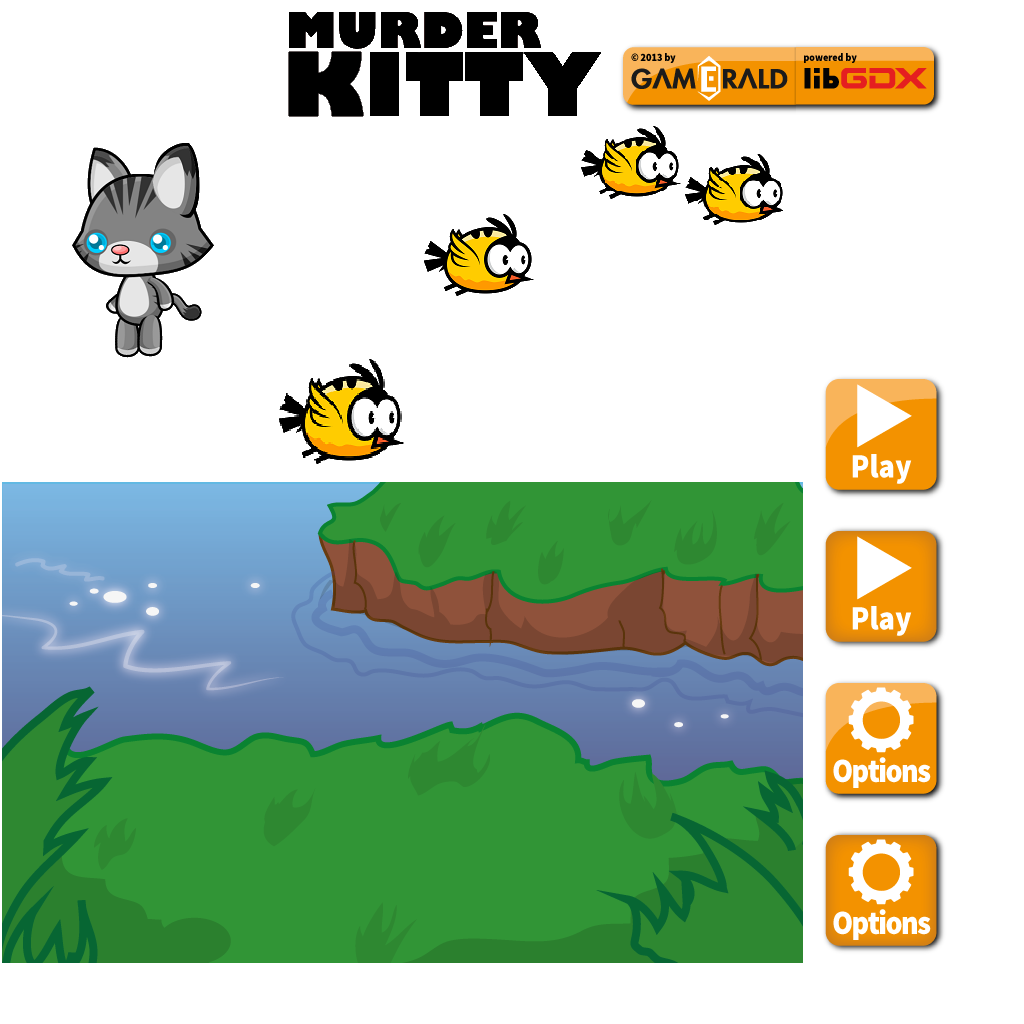
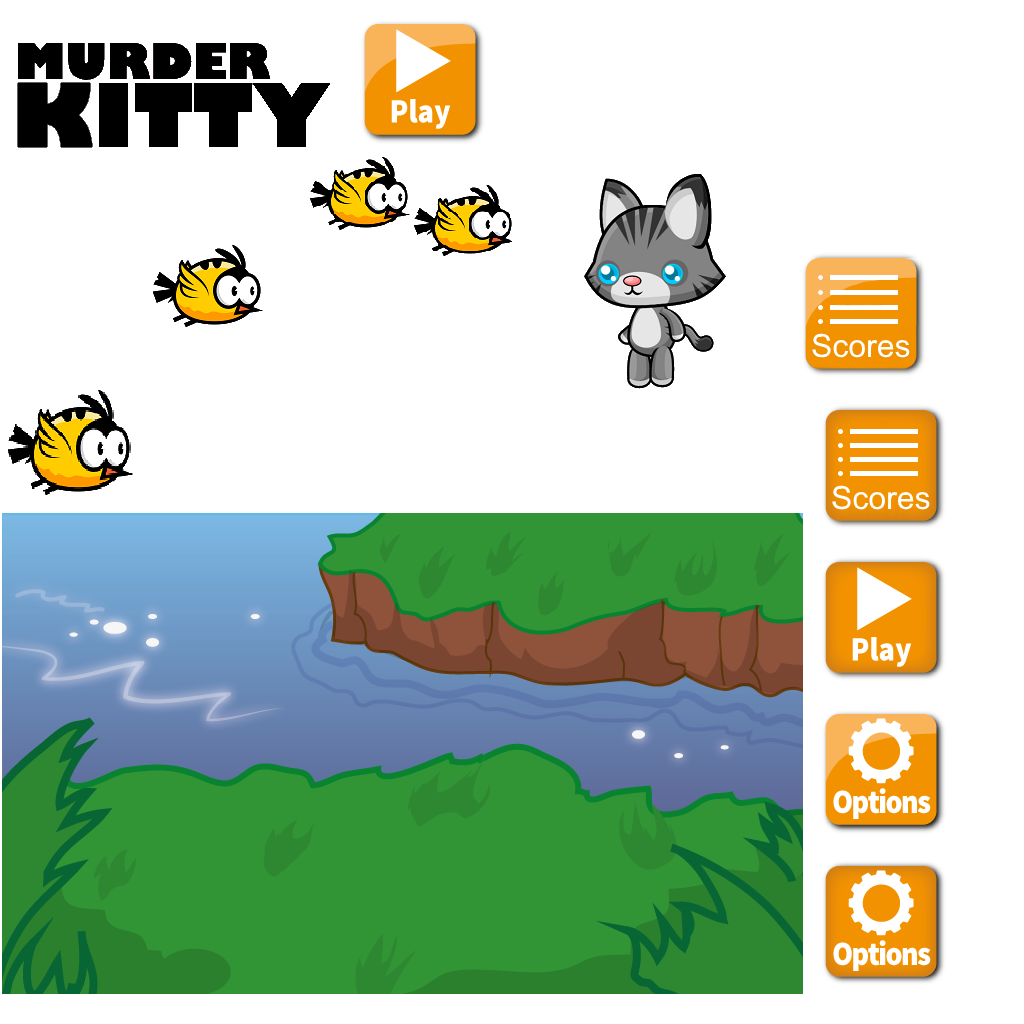
Final project: added menu score button & window (Modified: murderkitty-ui.pack.atlas, murderkitty-ui.json, TextureAtlasBuilder.java, Cat.java, Assets.java, MenuScreen.java, murderkitty-ui.pack.png) (Added: murderkitty-ui.pack2.png, scores-dn.png, scores-up.png)
** jumping animation starts over during each frog jump now **
** created and added score buttons to the menu **
** score window pops up with a close button (empty for now) **

** TODO: save and load top scores into menu score window **

diff --git a/core/src/com/lashleygdx/game/screens/MenuScreen.java b/core/src/com/lashleygdx/game/screens/MenuScreen.java
@@ -46,6 +46,7 @@ public class MenuScreen extends AbstractGameScreen
 	private Image imgBirds;
 	private Image imgKitty;
 	private Button btnMenuPlay;
+	private Button btnMenuScores;
 	private Button btnMenuOptions;
 
 	// options
@@ -59,6 +60,10 @@ public class MenuScreen extends AbstractGameScreen
 	private SelectBox<CharacterSkin> selCharSkin;
 	private Image imgCharSkin;
 	private CheckBox chkShowFpsCounter;
+
+	// high score list
+	private Window winScores;
+	private TextButton btnClose;
 
 	// debug
 	private final float DEBUG_REBUILD_INTERVAL = 5.0f;
@@ -152,6 +157,7 @@ public class MenuScreen extends AbstractGameScreen
 		Table layerObjects = buildObjectsLayer();
 		Table layerLogos = buildLogosLayer();
 		Table layerControls = buildControlsLayer();
+		Table layerScoreList = buildHighScoreWindowLayer();
 		Table layerOptionsWindow = buildOptionsWindowLayer();
 
 		// assemble stage for menu screen
@@ -163,6 +169,7 @@ public class MenuScreen extends AbstractGameScreen
 		stack.add(layerObjects);
 		stack.add(layerLogos);
 		stack.add(layerControls);
+		stage.addActor(layerScoreList);
 		stage.addActor(layerOptionsWindow);
 	}
 
@@ -236,6 +243,18 @@ public class MenuScreen extends AbstractGameScreen
 			}
 		});
 		layer.row();
+		// + high score list button
+		btnMenuScores = new Button(skinMurderKitty, "scores");
+		layer.add(btnMenuScores);
+		btnMenuScores.addListener(new ChangeListener()
+		{
+			@Override
+			public void changed (ChangeEvent event, Actor actor)
+			{
+				onScoresClicked();
+			}
+		});
+		layer.row();
 		// + options button
 		btnMenuOptions = new Button(skinMurderKitty, "options");
 		layer.add(btnMenuOptions);
@@ -280,11 +299,46 @@ public class MenuScreen extends AbstractGameScreen
 	}
 
 	/**
+	 * main menu high score list layer
+	 * @return winScore
+	 */
+	private Table buildHighScoreWindowLayer()
+	{
+		winScores = new Window("High Scores", skinLibgdx);
+
+		// + separator and button (close)
+		winScores.add(buildScoreWinButton()).pad(10, 0, 10, 0);
+
+		// make options window slightly transparent
+		winScores.setColor(1, 1, 1, 0.8f);
+		// hide options window by default
+		winScores.setVisible(false);
+		if (debugEnabled) winScores.debug();
+		// let tablelayout recalculate widget sizes and positions
+		winScores.pack();
+		// move options window to bottom right corner
+		winScores.setPosition(Constants.VIEWPORT_GUI_WIDTH - winScores.getWidth() - 50, 50);
+		return winScores;
+	}
+
+	/**
 	 * start game when play button clicked
 	 */
 	private void onPlayClicked()
 	{
 		game.setScreen(new GameScreen(game));
+	}
+
+	/**
+	 * open high score list when scores button clicked
+	 */
+	private void onScoresClicked()
+	{
+		loadSettings();
+		btnMenuPlay.setVisible(false);
+		btnMenuScores.setVisible(false);
+		btnMenuOptions.setVisible(false);
+		winScores.setVisible(true);
 	}
 
 	/**
@@ -294,6 +348,7 @@ public class MenuScreen extends AbstractGameScreen
 	{
 		loadSettings();
 		btnMenuPlay.setVisible(false);
+		btnMenuScores.setVisible(false);
 		btnMenuOptions.setVisible(false);
 		winOptions.setVisible(true);
 	}
@@ -346,7 +401,6 @@ public class MenuScreen extends AbstractGameScreen
 	{
 		saveSettings();
 		onCancelClicked();
-		AudioManager.instance.onSettingsUpdated();
 	}
 
 	/**
@@ -355,9 +409,21 @@ public class MenuScreen extends AbstractGameScreen
 	private void onCancelClicked()
 	{
 		btnMenuPlay.setVisible(true);
+		btnMenuScores.setVisible(true);
 		btnMenuOptions.setVisible(true);
 		winOptions.setVisible(false);
 		AudioManager.instance.onSettingsUpdated();
+	}
+
+	/**
+	 * close options menu without saving
+	 */
+	private void onCloseClicked()
+	{
+		btnMenuPlay.setVisible(true);
+		btnMenuScores.setVisible(true);
+		btnMenuOptions.setVisible(true);
+		winScores.setVisible(false);
 	}
 
 	/**
@@ -482,6 +548,41 @@ public class MenuScreen extends AbstractGameScreen
 			public void changed(ChangeEvent event, Actor actor)
 			{
 				onCancelClicked();
+			}
+		});
+		return tbl;
+	}
+
+	/**
+	 * construct high score list close button
+	 * @return tbl
+	 */
+	private Table buildScoreWinButton()
+	{
+		Table tbl = new Table();
+		// + Separator
+		Label lbl = null;
+		lbl = new Label("", skinLibgdx);
+		lbl.setColor(0.75f, 0.75f, 0.75f, 1);
+		lbl.setStyle(new LabelStyle(lbl.getStyle()));
+		lbl.getStyle().background = skinLibgdx.newDrawable("white");
+		tbl.add(lbl).colspan(2).height(1).width(220).pad(0, 0, 0, 1);
+		tbl.row();
+		lbl = new Label("", skinLibgdx);
+		lbl.setColor(0.5f, 0.5f, 0.5f, 1);
+		lbl.setStyle(new LabelStyle(lbl.getStyle()));
+		lbl.getStyle().background = skinLibgdx.newDrawable("white");
+		tbl.add(lbl).colspan(2).height(1).width(220).pad(0, 1, 5, 0);
+		tbl.row();
+		// + save button with event handler
+		btnClose = new TextButton("Close", skinLibgdx);
+		tbl.add(btnClose).padRight(30);
+		btnClose.addListener(new ChangeListener()
+		{
+			@Override
+			public void changed(ChangeEvent event, Actor actor)
+			{
+				onCloseClicked();
 			}
 		});
 		return tbl;

diff --git a/core/src/com/lashleygdx/game/world/objects/Cat.java b/core/src/com/lashleygdx/game/world/objects/Cat.java
@@ -36,7 +36,7 @@ public class Cat extends AbstractGameObject
 
 	// animations
 	private Animation isDead;
-//	private Animation isFalling;
+	private Animation isFalling;
 	private Animation isIdle;
 	public Animation isJumping;
 	private Animation isRunning;
@@ -73,7 +73,7 @@ public class Cat extends AbstractGameObject
 		dimension.set(1, 1);
 
 		isDead = Assets.instance.cat.isDead;
-//		isFalling = Assets.instance.cat.isFalling;
+		isFalling = Assets.instance.cat.isFalling;
 		isIdle = Assets.instance.cat.isIdle;
 		isJumping = Assets.instance.cat.isJumping;
 		isRunning = Assets.instance.cat.isRunning;
@@ -117,11 +117,11 @@ public class Cat extends AbstractGameObject
 				// start jump time
 				timeJumping = 0;
 				jumpState = JUMP_STATE.JUMP_RISING;
-				if (animation != isJumping)
-					setAnimation(isJumping);
 			}
 			break;
 		case JUMP_RISING:	// rising in the air
+			if (animation != isJumping)
+				setAnimation(isJumping);
 			if (!jumpKeyPressed)
 				jumpState = JUMP_STATE.FALLING;
 			break;
@@ -132,6 +132,7 @@ public class Cat extends AbstractGameObject
 				AudioManager.instance.play(Assets.instance.sounds.jumpWithFrog, 1, MathUtils.random(1.0f, 1.1f));
 				timeJumping = JUMP_TIME_OFFSET_FLYING;
 				jumpState = JUMP_STATE.JUMP_RISING;
+				setAnimation(isJumping);
 			}
 			break;
 		}
@@ -194,7 +195,7 @@ public class Cat extends AbstractGameObject
 				if (jumpState == JUMP_STATE.GROUNDED)
 					dustParticles.start();
 				viewDirection = velocity.x < 0 ? VIEW_DIRECTION.LEFT : VIEW_DIRECTION.RIGHT;
-				if (jumpState != JUMP_STATE.JUMP_RISING)
+				if (jumpState == JUMP_STATE.GROUNDED)
 				{
 					if (!hasBloodlust)
 					{
@@ -210,6 +211,11 @@ public class Cat extends AbstractGameObject
 				if (animation != isJumping)
 					setAnimation(isJumping);
 				body.setLinearVelocity(velocity.x, 8f);
+			}
+			if (jumpState == JUMP_STATE.JUMP_FALLING)
+			{
+				if (animation != isFalling)
+					setAnimation(isFalling);
 			}
 			if (velocity.x == 0 && velocity.y == 0)
 			{
@@ -261,7 +267,6 @@ public class Cat extends AbstractGameObject
 			if (velocity.x != 0)
 			{
 				dustParticles.setPosition(position.x + dimension.x / 2,  position.y);
-				//dustParticles.start();
 			}
 			break;
 		case JUMP_RISING:

diff --git a/desktop/src/com/lashleygdx/game/desktop/TextureAtlasBuilder.java b/desktop/src/com/lashleygdx/game/desktop/TextureAtlasBuilder.java
@@ -21,6 +21,6 @@ public class TextureAtlasBuilder
 			settings.duplicatePadding = false;
 			settings.debug = drawDebugOutline;
 			TexturePacker.process(settings,  "assets-raw/images",  "../core/assets/images", "murderkitty.pack");
-//			TexturePacker.process(settings, "assets-raw/images-ui", "../core/assets/images", "murderkitty-ui.pack");
+			TexturePacker.process(settings, "assets-raw/images-ui", "../core/assets/images", "murderkitty-ui.pack");
 	}
 }

diff --git a/core/src/com/lashleygdx/game/world/Assets.java b/core/src/com/lashleygdx/game/world/Assets.java
@@ -242,7 +242,7 @@ public class Assets implements Disposable, AssetErrorListener
 
 			// fall
 			regions = atlas.findRegions("Fall");
-			isFalling = new Animation(1.0f / 10.0f, regions, Animation.PlayMode.NORMAL);
+			isFalling = new Animation(1.0f / 10.0f, regions, Animation.PlayMode.LOOP);
 
 			// idle
 			regions = atlas.findRegions("Idle");
